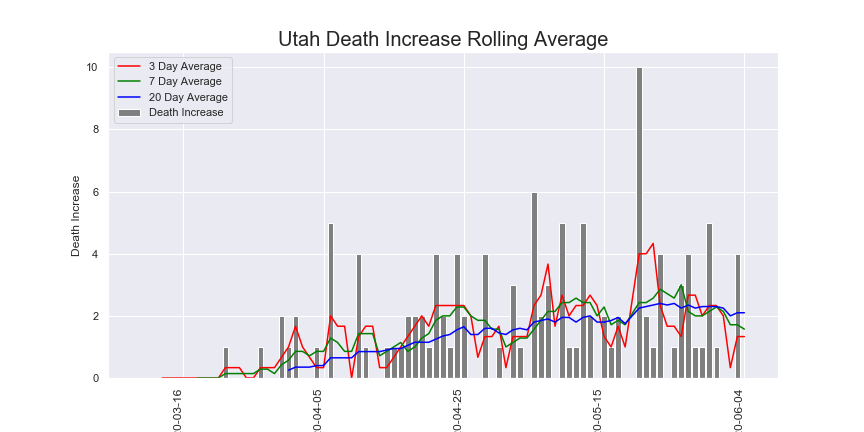
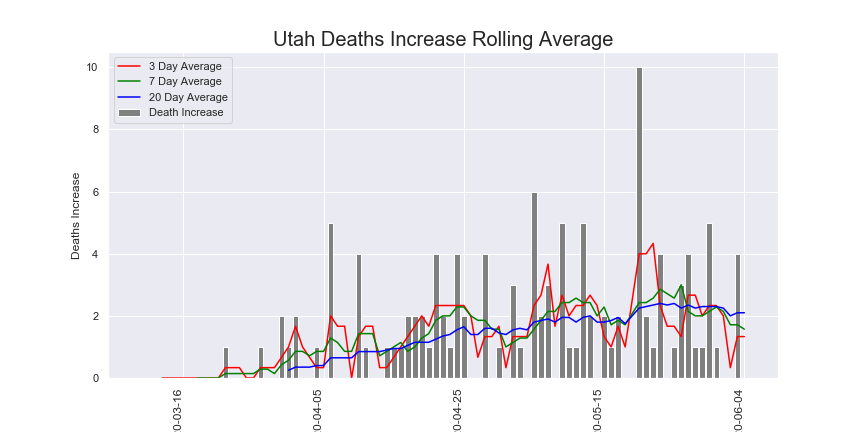
.

Changed region(s): [[0.3125, 0.0602, 0.7188, 0.1204], [0.0625, 0.4213, 0.0938, 0.6019]]

diff --git a/My_COVID_API.py b/My_COVID_API.py
@@ -83,7 +83,6 @@ UT.drop(C,inplace=True)
 
 #%%
 # Create date ordinal for simplicity of plot labels
-
 UT['date_ordinal'] = pd.to_datetime(UT['date']).apply(lambda date: date.toordinal())
 
 OrangeDate = UT[UT['date']=='2020-04-28']['date_ordinal']
@@ -96,32 +95,31 @@ ProtestDate = UT[UT['date']=='2020-05-29']['date_ordinal']
 ProtestDate = int(ProtestDate)
 
 fig, ax = plt.subplots(figsize = (12,6))
+
+ax.bar(UT['date_ordinal'], UT['positiveIncrease'], label='Non-Hospitalized Increase',color='blue')
 ax.bar(UT['date_ordinal'], UT['hospitalizedIncrease'], label='Hospitalized Increase',color='red')
-ax.bar(UT['date_ordinal'], UT['TotMinusHosptializedIncresase'], label='Non-Hospitalized Increase',color='blue',bottom=UT['hospitalizedIncrease'])
 ax.legend(loc='upper left')
 
 
 new_labels = [date.fromordinal(int(item)) for item in ax.get_xticks()]
 ax.set_xticklabels(labels=new_labels, rotation=90, ha='right',fontdict={'fontsize':12})
 
-
 ax.axvline(x=OrangeDate, color='orange', linewidth=2)
-ax.annotate('Code Orange Date', (OrangeDate - 2,340),color='black',rotation=90,fontsize=13)
+ax.annotate('Code Orange Date', (OrangeDate - 2,240),color='black',rotation=90,fontsize=13)
 ax.axvline( x=YellowDate, color='yellow', linewidth=2)
-ax.annotate('Code Yellow Date', (YellowDate - 2,340),color='black',rotation=90,fontsize=13)
-ax.axvline( x=ProtestDate, color='purple', linewidth=2)
-ax.annotate('Protest Start Date', (ProtestDate - 2 ,355),color='black',rotation=90,fontsize=13)
+ax.annotate('Code Yellow Date', (YellowDate - 2,240),color='black',rotation=90,fontsize=13)
+ax.axvline( x=ProtestDate, color='purple', linewidth=1.5)
+ax.annotate('Protest Start Date', (ProtestDate - 2 ,240),color='black',rotation=90,fontsize=13)
 
 ax.axvline(x=OrangeDate + 7, color='orange', linewidth=2, linestyle = '--')
-
+ax.annotate('Code Orange + 7-Days', (OrangeDate +5,210),color='black',rotation=90,fontsize=13)
 ax.axvline( x=YellowDate + 7, color='yellow', linewidth=2, linestyle = '--')
-
 ax.axvline( x=ProtestDate + 7, color='purple', linewidth=2, linestyle = '--')
 
 
-plt.title('Utah Positive Increase (non)Hospitalized', fontdict={'fontsize':20})
+plt.title('Utah Case Increase (non)Hospitalized', fontdict={'fontsize':20})
 plt.xlabel('Date', fontdict={'fontsize':12})
-plt.ylabel('Positive Increase', fontdict={'fontsize':12})
+plt.ylabel('Case Increase', fontdict={'fontsize':12})
 plt.axis('tight')
 plt.savefig('Utah_Increase_Hospitalized.png')
 
@@ -157,13 +155,14 @@ ax.axvline( x=ProtestDate, color='purple', linewidth=1.5)
 ax.annotate('Protest Start Date', (ProtestDate - 2 ,240),color='black',rotation=90,fontsize=13)
 
 ax.axvline(x=OrangeDate + 7, color='orange', linewidth=2, linestyle = '--')
+ax.annotate('Code Orange + 7-Days', (OrangeDate +5,210),color='black',rotation=90,fontsize=13)
 ax.axvline( x=YellowDate + 7, color='yellow', linewidth=2, linestyle = '--')
 ax.axvline( x=ProtestDate + 7, color='purple', linewidth=2, linestyle = '--')
 
 
-plt.title('Utah Positive Increase Rolling Average', fontdict={'fontsize':20})
+plt.title('Utah Case Increase Rolling Average', fontdict={'fontsize':20})
 plt.xlabel('Date', fontdict={'fontsize':12})
-plt.ylabel('Positive Increase', fontdict={'fontsize':12})
+plt.ylabel('Case Increase', fontdict={'fontsize':12})
 plt.axis('auto')
 
 plt.savefig('Utah_Increase_Rolling_Avg.png')
@@ -187,9 +186,9 @@ plt.plot(UT['date_ordinal'], UT.rolling_mean_d3, label='20 Day Average', color='
 plt.legend(loc='upper left')
 new_labels = [date.fromordinal(int(item)) for item in ax.get_xticks()]
 ax.set_xticklabels(labels=new_labels, rotation=90, ha='right',fontdict={'fontsize':12})
-plt.title('Utah Death Increase Rolling Average', fontdict={'fontsize':20})
+plt.title('Utah Deaths Increase Rolling Average', fontdict={'fontsize':20})
 plt.xlabel('Date', fontdict={'fontsize':12})
-plt.ylabel('Death Increase', fontdict={'fontsize':12})
+plt.ylabel('Deaths Increase', fontdict={'fontsize':12})
 plt.axis('tight')
 plt.savefig('Utah_Death_Rolling_Avg.png')
 plt.show()

diff --git a/7_day_increse.py b/7_day_increse.py
@@ -111,4 +111,8 @@ ax.set_xticklabels(labels=new_labels, rotation=45, ha='right',fontdict={'fontsiz
 
 
 plt.show()
-    
+
+#%%
+
+
+
